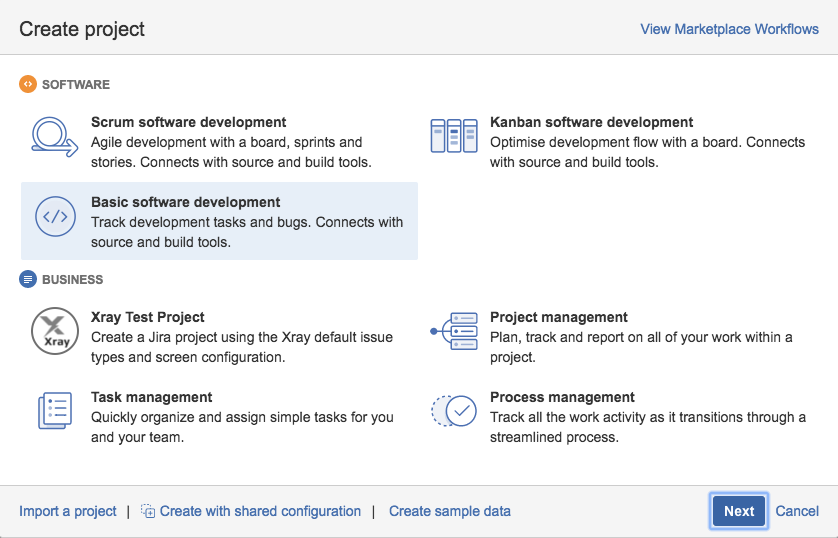
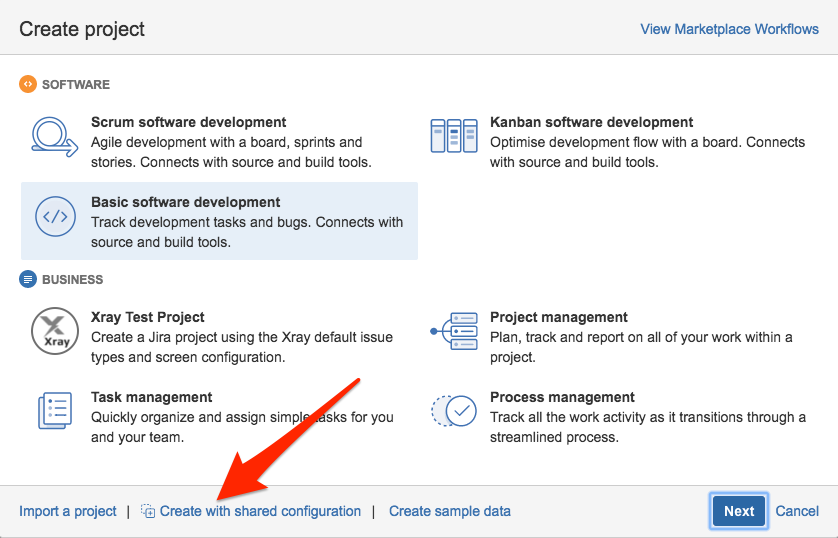
Simplified creation of new project.

Changed region(s): [[0.2482, 0.7435, 0.4033, 0.9517], [0.4033, 0.684, 0.4344, 0.7435]]

diff --git a/readme.md b/readme.md
@@ -20,7 +20,7 @@ Go to [Bitbucket](https://bitbucket.org/dsintegration/) and create a new reposit
 
 ![Create new repo 3](new-repo-3.png)
 
-Clone the repo, create a readme, and push it back to get started.
+Clone the repo, create a readme, and push it back to get started.  I do it this way, YMMV.
 
 ![Create new repo 4](new-repo-4.png)
 
@@ -28,11 +28,13 @@ Clone the repo, create a readme, and push it back to get started.
 
 # Create new project
 
-Log in to [JIRA](https://jira.danskespil.dk), and create a Basic Software Development project to get the proper basic workflow.  Don't worry, we will make it Scrum or Kanban later, but we have to start this way.
+Log in to [JIRA](https://jira.danskespil.dk), and Create a project with shared configuration.
 
 ![Create project 1](new-jira-project-01.png)
 
 ![Create project 2](new-jira-project-02.png)
+
+Use the Standard Development Project:
 
 ![Create project 3](new-jira-project-03.png)
 
@@ -40,62 +42,10 @@ The *Key* of the project is import because that is what will be used to link JIR
 
 ![Create project 4](new-jira-project-04.png)
 
-After the project is created, you will need to setup the workflow:
-
-![Create project 5](new-jira-project-05.png)
-
-![Create project 6](new-jira-project-06.png)
-
-The JIRA interface for editing the workflow is somewhat unituitive.  It displays different things depending on whether your are in edit mode or view mode, and whether your are in diagram mode or text mode.
-
-When you click to edit on the workflow, you will be prompted your password to switch to administrator role.
-
-![Create project 7](new-jira-project-07.png)
-
-![Create project 8](new-jira-project-08.png)
-
-To put triggers on the workflow, you need to be in diagram mode:
-
-![Create project 9](new-jira-project-09.png)
-
-Click on the *IN PROGRESS* transition to get a menu to the right:
-
-![Create project 10](new-jira-project-10.png)
-
-Click *triggers*:
-
-![Create project 11](new-jira-project-11.png)
-
-And *Add Trigger*:
-
-![Create project 12](new-jira-project-12.png)
-
-Specifically a *Branch Created* trigger.
-
-![Create project 13](new-jira-project-13.png)
-
-![Create project 14](new-jira-project-14.png)
-
-Now the new trigger should be listed:
-
-![Create project 15](new-jira-project-15.png)
-
-Continue to add one more triggers for sending an issue back to *IN PROGRESS* if a pull request is rejected:
-
-![Create project 16](new-jira-project-16.png)
-
-Then publish the workflow, no need to create a backup:
-
-![Create project 17](new-jira-project-17.png)
-
-![Create project 18](new-jira-project-18.png)
-
-
-
-![Create project 19](new-jira-project-19.png)
-![Create project 20](new-jira-project-20.png)
-![Create project 21](new-jira-project-21.png)
-![Create project 22](new-jira-project-22.png)
+# Make a Scrum board
 
 ![Scrum board](scrum-1.png)
-![Backlog](scrum-2.png)
+
+![Board](scrum-2.png)
+
+![Backlog](scrum-3.png)
